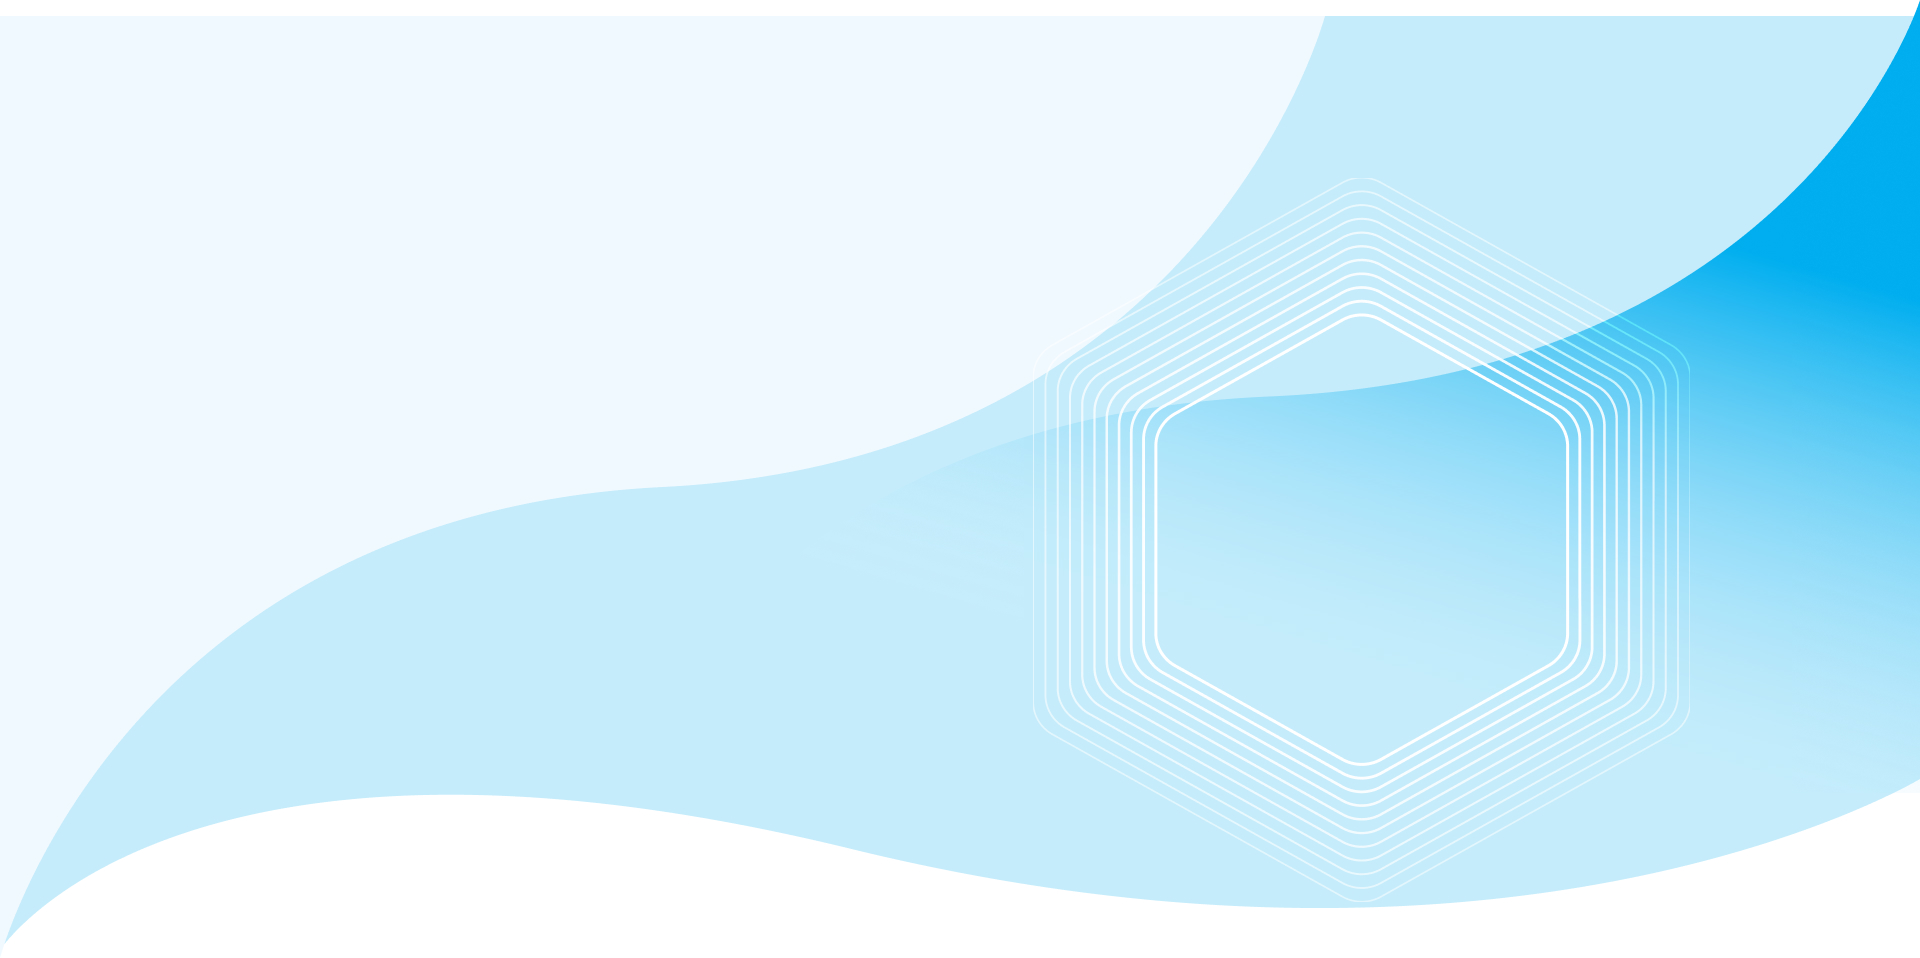
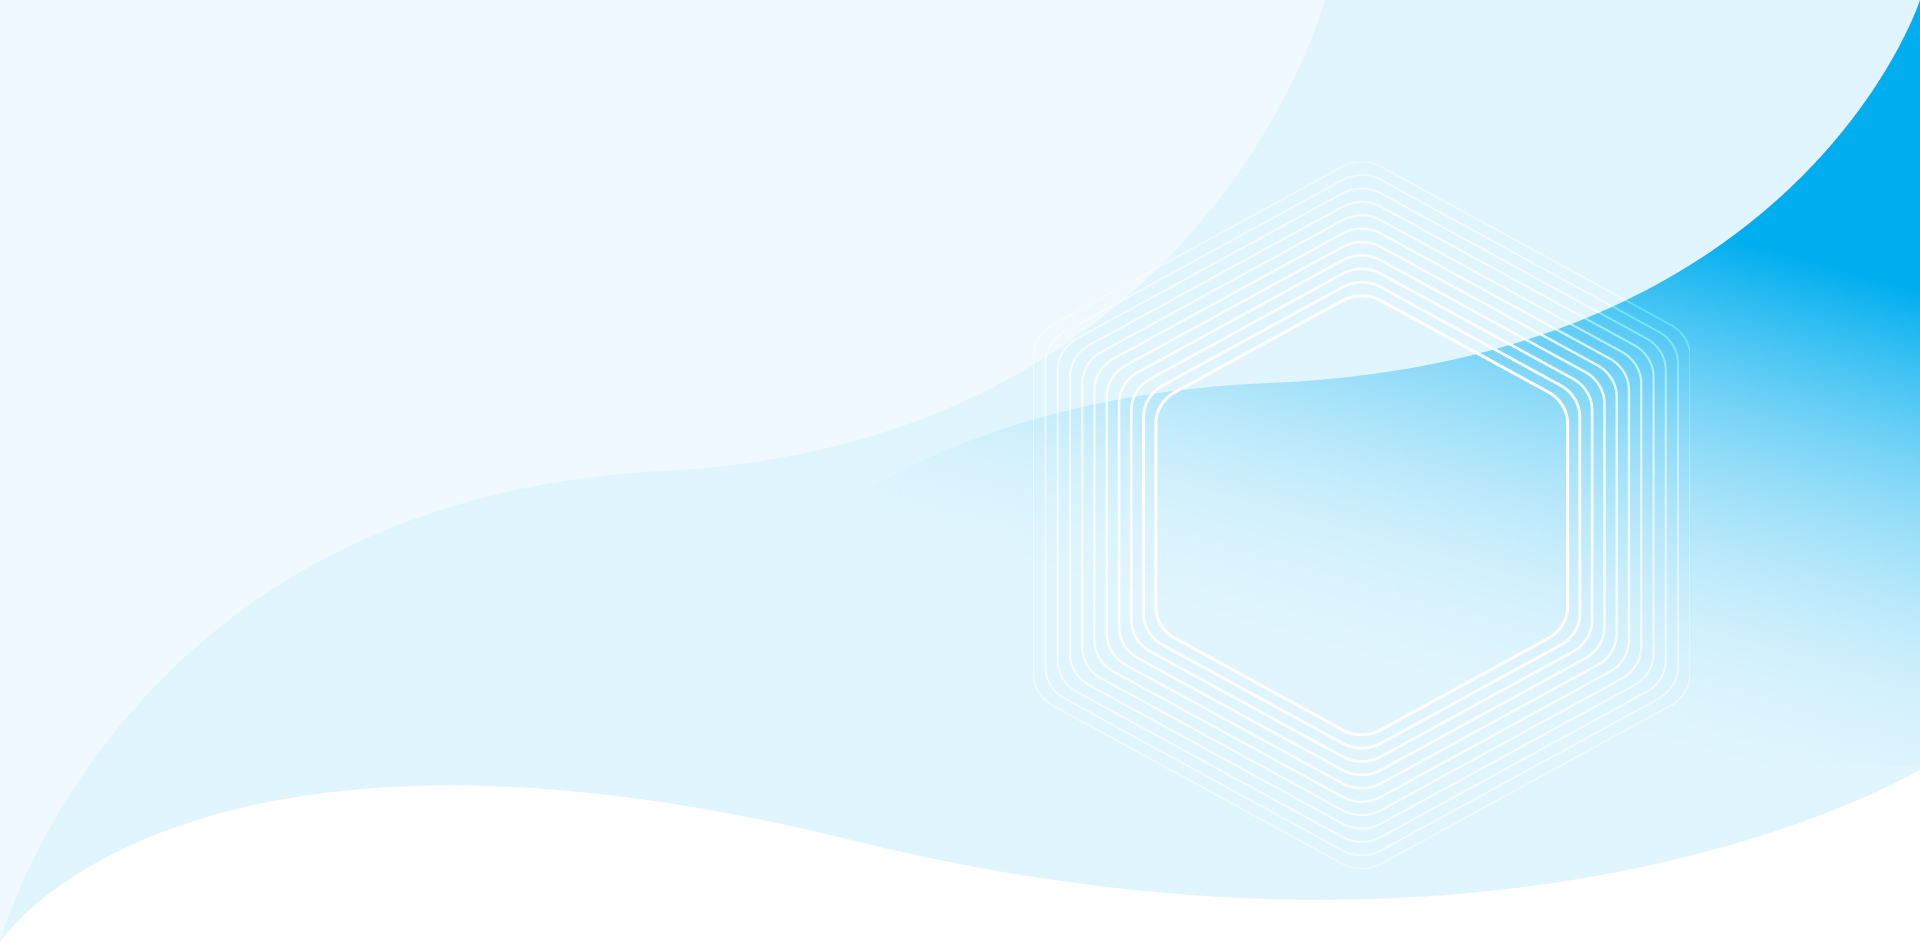
fixed

diff --git a/index.html b/index.html
@@ -61,7 +61,8 @@
 
         <!-- slider-area starts -->
         <div class="slider-area main-slider-activee style-1">
-            <div class="slide-bg img-fluid" style="background-image:url(images/slider/banner-bg.jpg)"></div>
+            <div class="slide-bg img-fluid d-none d-xl-block" style="background-image:url(images/slider/banner-bg.jpg)"></div>
+            <div class="slide-bg-mobile img-fluid d-xl-none" style="background-image:url(images/slider/mobile-banner-bg.jpg)"></div>
             <div class="slide-thumb img-fluid" style="background-image:url(images/slider/slider-thumb.png)"></div>
             <!-- single-slide-item -->
             <div class="single-slide-item">

diff --git a/css/style.css b/css/style.css
@@ -441,6 +441,17 @@ label {
   height: 100%;
   z-index: -999;
 }
+.slider-area .slide-bg-mobile {
+  position: absolute;
+  top: 0;
+  left: 0;
+  background-repeat: no-repeat;
+  background-size: cover;
+  width: 100%;
+  height: 100%;
+  z-index: -999;
+  background-position: -70px 0;
+}
 .slider-area .slide-thumb {
   width: 960px;
   height: 480px;

diff --git a/assets/scss/_slider.scss b/assets/scss/_slider.scss
@@ -13,6 +13,17 @@
         height: 100%;
         z-index: -999;
     }
+	.slide-bg-mobile {
+		position: absolute;
+		top: 0;
+		left: 0;
+		background-repeat: no-repeat;
+		background-size: cover;
+		width: 100%;
+		height: 100%;
+		z-index: -999;
+		background-position: -70px 0;
+	}
 
     .slide-thumb {
         width: 960px;
